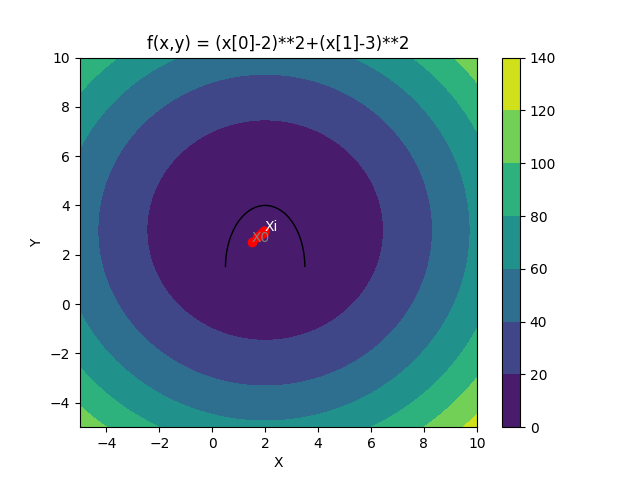
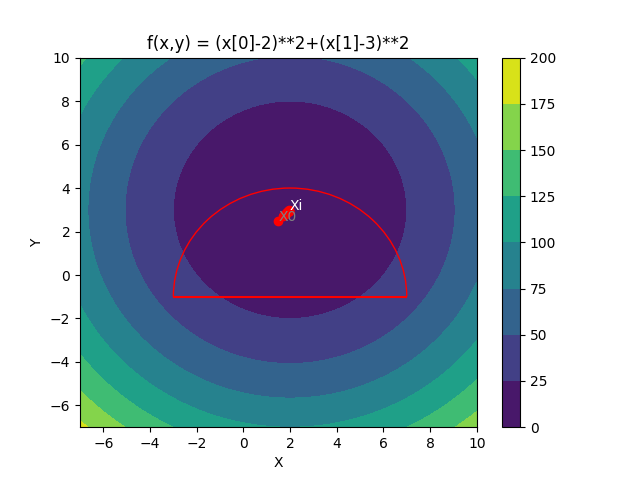
Fixed półkole

diff --git a/main.py b/main.py
@@ -5,6 +5,7 @@ import matplotlib.pyplot as plt
 import numpy as np
 import sympy as sympy
 from matplotlib import patches
+import matplotlib.lines as lines
 from sympy import *
 
 def func(x, x_values, mu, funcOgraniczenia):
@@ -54,8 +55,8 @@ def assign_values_in_point(f_variables, x0):
 
 def rysujWykres(punkty):
 
-    x_points = np.linspace(-5, 10, 100)
-    y_points = np.linspace(-5, 10, 100)
+    x_points = np.linspace(-7, 10, 100)
+    y_points = np.linspace(-7, 10, 100)
     X, Y = np.meshgrid(x_points, y_points)
 
     if values["-STOP-"][0] == "Koło":
@@ -65,8 +66,9 @@ def rysujWykres(punkty):
         rectangle = plt.Rectangle((-3, -2), 10, 10, edgecolor='r', fill=None)
         plt.gca().add_patch(rectangle)
     if values["-STOP-"][0] == "Półkole":
-        semicircle = patches.Arc((2,1.5), 3, 5, angle=0.0, theta1=0.0, theta2=180.0)
+        semicircle = patches.Arc((2, -1), 10, 10, angle=0.0, theta1=0.0, theta2=180.0, color='r')
         plt.gca().add_patch(semicircle)
+        plt.hlines(y = -1, xmin = -3, xmax = 7, color='r')
 
     func3d_vectorized = []
     for point_x in x_points:
